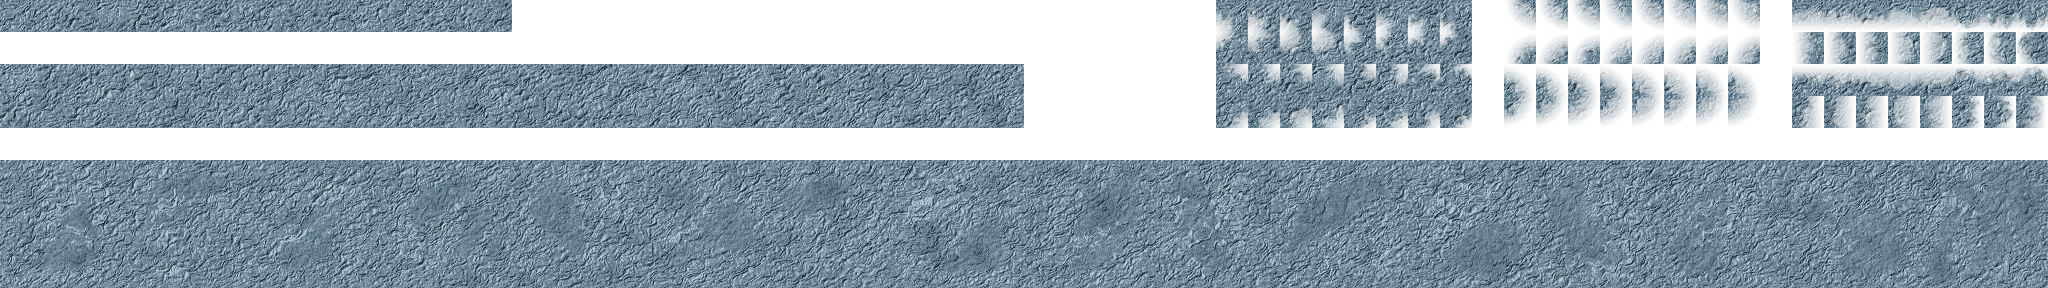
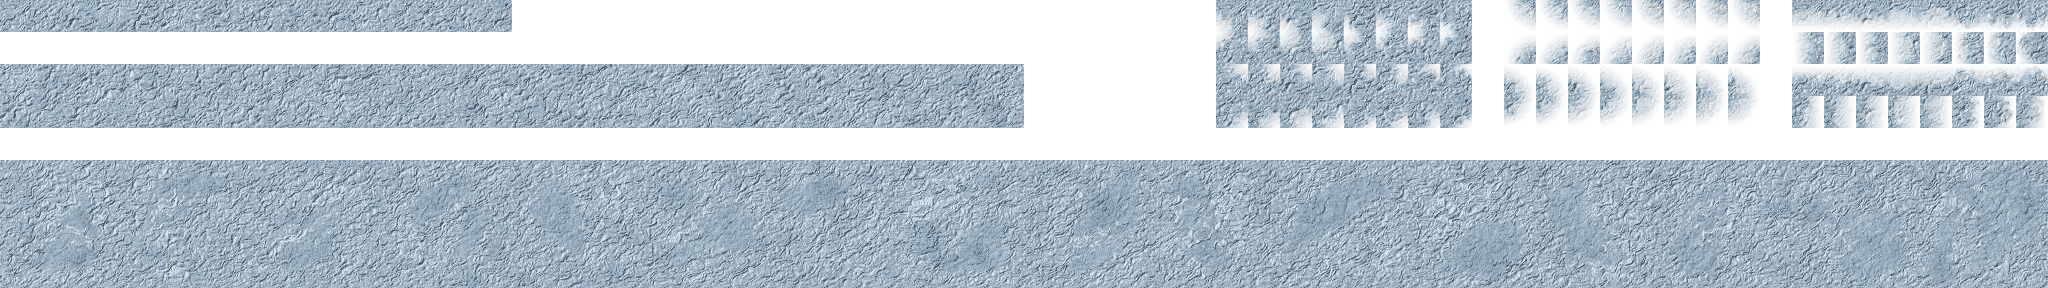
BIOMES-SUIVI : exclusion entre biomes appliquee aux gisements lies (W.exclusion.gisements), givre clair (fer lisible), mesure du fer sur les sols

diff --git a/tools/autotest/biomes_fer.py b/tools/autotest/biomes_fer.py
@@ -1,0 +1,82 @@
+"""Lot BIOMES-SUIVI (30/10) : lisibilité du MINERAI DE FER vanilla sur un sol, mesurée sur les captures du banc b0-biomes.
+
+Le scénario pose trois carrés de 22 tuiles (givre de la plaine de cristal, herbe, désert rouge), chacun avec un gisement de
+fer de 12 × 12 tuiles dont la quantité croît d'ouest en est (colonne 1 : 60, colonne 12 : 30 000 ; tous les stades de
+l'image). Captures « fer-<fond>-z2 » : zoom 2 (64 px par tuile), centrées sur le carré, de jour.
+
+Mesures (CIE Lab, D65, sRGB) :
+- sol : moyenne d'une bande de sol nu à 7,5 à 10 tuiles du centre (à gauche et à droite, lignes −5 à +5) ;
+- par colonne du gisement (lignes −5 à +5) : ΔE76 entre la moyenne de la colonne et le sol, et part des pixels de la
+  colonne à plus de 20 de ΔE du sol (« pixels qui se détachent ») ;
+- contraste de LUMINANCE moyen |L(minerai) − L(sol)| sur les pixels qui se détachent.
+Comparaison : le fer sur le givre contre le fer sur l'herbe et le désert rouge (sols vanilla où il se lit bien).
+
+Usage : py -3.9 tools/autotest/biomes_fer.py <dossier fo-shots> [<dossier fo-shots> ...]
+"""
+import glob
+import os
+import sys
+
+import numpy as np
+from PIL import Image
+
+TUILE = 64  # zoom 2
+FONDS = [("givre", "fer-givre-z2"), ("herbe", "fer-grass-2-z2"), ("desert rouge", "fer-red-desert-0-z2")]
+SEUIL = 20.0
+
+
+def lab(rgb):
+    c = rgb / 255.0
+    c = np.where(c <= 0.04045, c / 12.92, ((c + 0.055) / 1.055) ** 2.4)
+    m = np.array([[0.4124, 0.3576, 0.1805], [0.2126, 0.7152, 0.0722], [0.0193, 0.1192, 0.9505]])
+    xyz = c @ m.T / np.array([0.95047, 1.0, 1.08883])
+    f = np.where(xyz > 0.008856, np.cbrt(xyz), 7.787 * xyz + 16 / 116)
+    return np.stack([116 * f[..., 1] - 16, 500 * (f[..., 0] - f[..., 1]), 200 * (f[..., 1] - f[..., 2])], -1)
+
+
+def mesure(png):
+    im = np.asarray(Image.open(png).convert("RGB"), dtype=np.float64)
+    h, w = im.shape[:2]
+    cx, cy = w / 2, h / 2
+    L = lab(im)
+    y0, y1 = int(cy - 5 * TUILE), int(cy + 5 * TUILE)
+    sol = np.concatenate([
+        L[y0:y1, int(cx - 10 * TUILE):int(cx - 7.5 * TUILE)].reshape(-1, 3),
+        L[y0:y1, int(cx + 7.5 * TUILE):int(cx + 10 * TUILE)].reshape(-1, 3)])
+    s = sol.mean(0)
+    cols = []
+    for k in range(12):
+        x0 = int(cx + (k - 6) * TUILE)
+        px = L[y0:y1, x0:x0 + TUILE].reshape(-1, 3)
+        d = np.linalg.norm(px - s, axis=1)
+        det = d > SEUIL
+        dl = np.abs(px[det, 0] - s[0]).mean() if det.any() else 0.0
+        cols.append((float(np.linalg.norm(px.mean(0) - s)), float(det.mean()), float(dl)))
+    return s, cols
+
+
+def main():
+    for dossier in sys.argv[1:]:
+        print("== " + dossier)
+        res = {}
+        for nom, motif in FONDS:
+            f = glob.glob(os.path.join(dossier, "*-" + motif + ".png"))
+            if not f:
+                print("  %-13s : capture absente" % nom)
+                continue
+            s, cols = mesure(f[0])
+            res[nom] = cols
+            print("  %-13s : sol Lab (%.0f ; %.0f ; %.0f)" % (nom, s[0], s[1], s[2]))
+            print("    dE colonne  : " + " ".join("%5.1f" % c[0] for c in cols))
+            print("    part > %d   : " % SEUIL + " ".join("%5.2f" % c[1] for c in cols))
+            print("    |dL| detache: " + " ".join("%5.1f" % c[2] for c in cols))
+        for nom in res:
+            cols = res[nom]
+            maigres = cols[:4]
+            print("  BILAN %-13s : dE moyen %.1f (4 colonnes maigres %.1f), part qui se detache %.2f (maigres %.2f)" % (
+                nom, np.mean([c[0] for c in cols]), np.mean([c[0] for c in maigres]),
+                np.mean([c[1] for c in cols]), np.mean([c[1] for c in maigres])))
+
+
+if __name__ == "__main__":
+    main()

diff --git a/tools/biomes/sol_cristal.py b/tools/biomes/sol_cristal.py
@@ -24,7 +24,21 @@ SOURCE = "sand-3"  # sable ridé : le relief en vaguelettes devient une croûte 
 # l'impression que des biomes sont mélangés », « les bleues claires sont jolies ») : GIVRE, gris-bleu froid, de la famille
 # des éclats aqua (fo-crystal-shard, Lab mesuré 35 ; −16 ; 3). Moyenne visée Lab (≈ 50 ; −6 ; −11) : ΔE ≈ 50 de l'herbe
 # (30 ; −2 ; 33), plus clair que les cratères (53 ; 0 ; 0) d'une teinte franche (b ≈ −11 contre 0).
+# Lot BIOMES-SUIVI (30/10) : GIVRE CLAIR. Mesuré en jeu (banc b0-biomes, tools/autotest/biomes_fer.py) : le minerai de fer
+# vanilla (gris neutre, moyenne du fichier 85 ; 92 ; 93, reflets gris-bleu) se lisait mal sur le givre de 0.6.22 (Lab en jeu
+# 54 ; −4 ; −11) : ΔE moyen des colonnes du gisement 13,9 contre 21,6 sur l'herbe et 23,4 sur le désert rouge ; 40 % des
+# pixels se détachent du sol contre 61 et 65 %. Le sol est éclairci (moyenne visée Lab ≈ 68 ; −3 ; −11, celle de sa couleur
+# de carte 152 ; 174 ; 192) : le fer, ses reflets compris, devient plus sombre que le sol ; même teinte bleu clair (que le DC
+# aime), plus loin des cratères gris (53 ; 0 ; 0). Le fer vanilla n'est pas touché.
 RAMPE = [
+    (0.00, (70, 88, 102)),
+    (0.35, (122, 142, 158)),
+    (0.65, (152, 172, 188)),
+    (0.85, (178, 196, 210)),
+    (1.00, (218, 229, 236)),
+]
+# Givre de 0.6.22 (piste AMELIO-BIOMES, mesuré en jeu Lab 54 ; −4 ; −11) : option --givre-0622, pour la planche.
+RAMPE_GIVRE_0622 = [
     (0.00, (34, 46, 56)),
     (0.35, (74, 95, 110)),
     (0.65, (104, 129, 145)),
@@ -76,8 +90,9 @@ def main():
     ap.add_argument("--dest", default=os.path.join(MOD, "graphics", "terrain", "cristal"))
     ap.add_argument("--pale", action="store_true", help="premier essai (rampe pâle), pour comparaison")
     ap.add_argument("--mauve", action="store_true", help="rampe livrée par B0 (mauve bruyère), pour comparaison")
+    ap.add_argument("--givre-0622", dest="givre_0622", action="store_true", help="givre de 0.6.22 (AMELIO-BIOMES), pour comparaison")
     a = ap.parse_args()
-    rampe = RAMPE_PALE if a.pale else (RAMPE_MAUVE if a.mauve else RAMPE)
+    rampe = RAMPE_PALE if a.pale else (RAMPE_MAUVE if a.mauve else (RAMPE_GIVRE_0622 if a.givre_0622 else RAMPE))
     os.makedirs(a.dest, exist_ok=True)
     terr = os.path.join(a.data, "base", "graphics", "terrain")
     for pre in ("", "hr-"):
